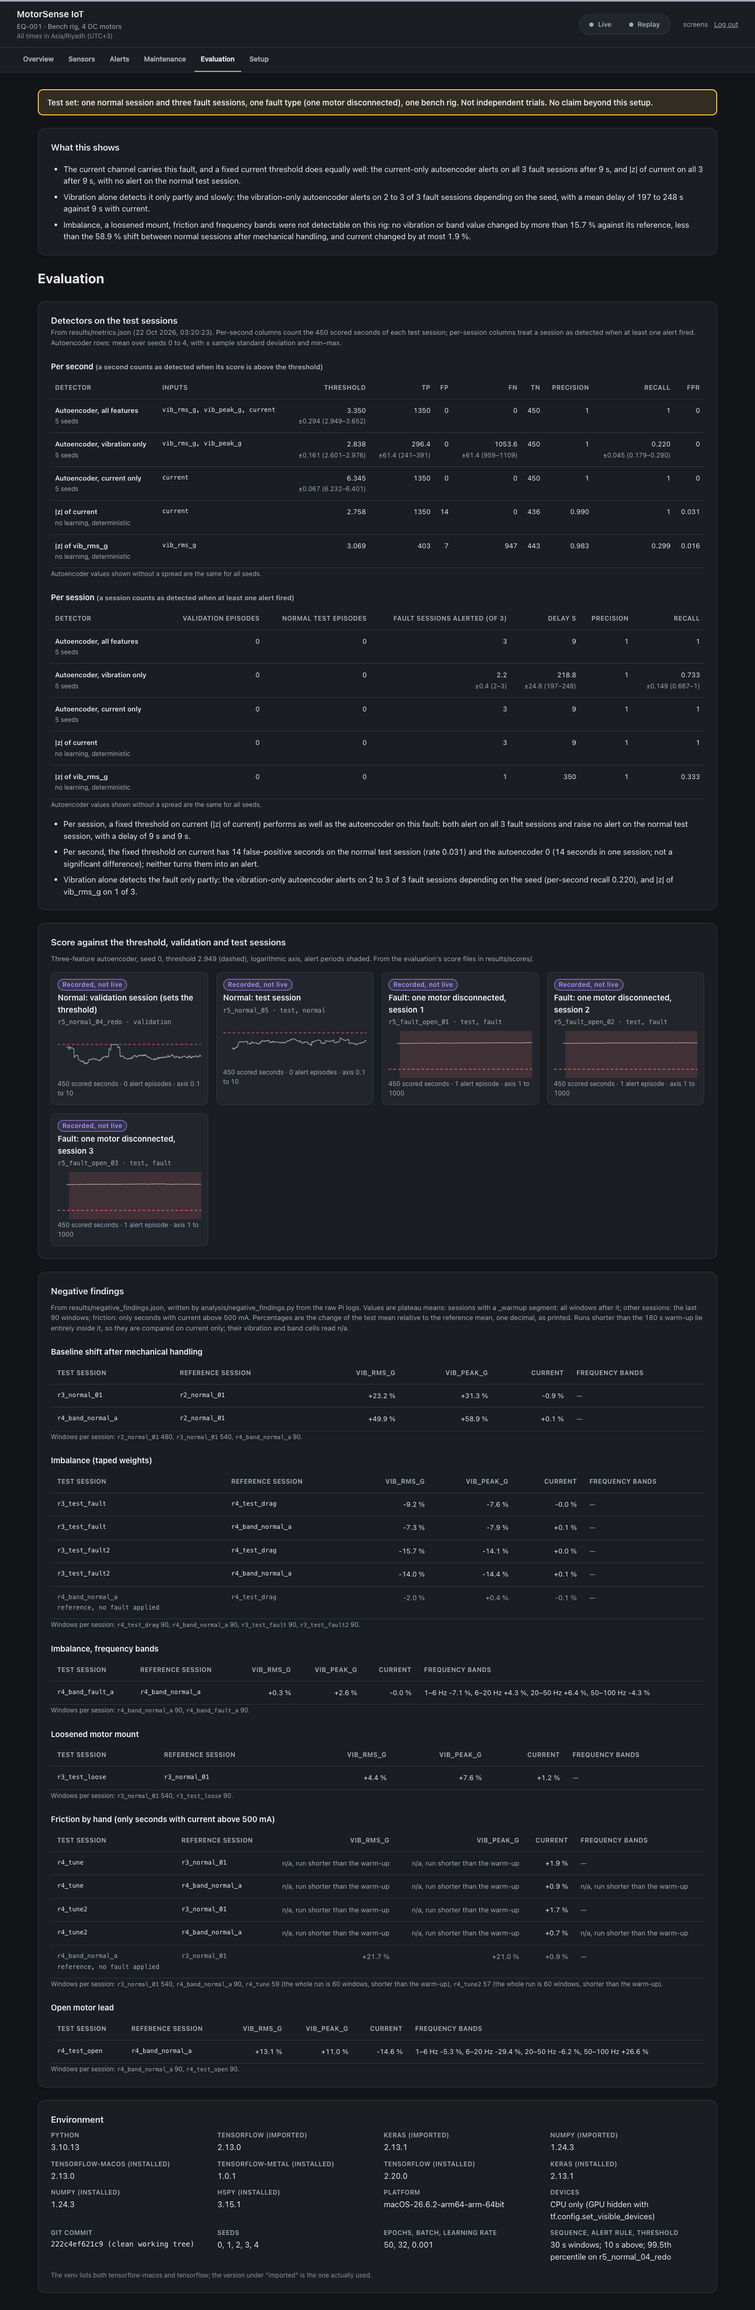
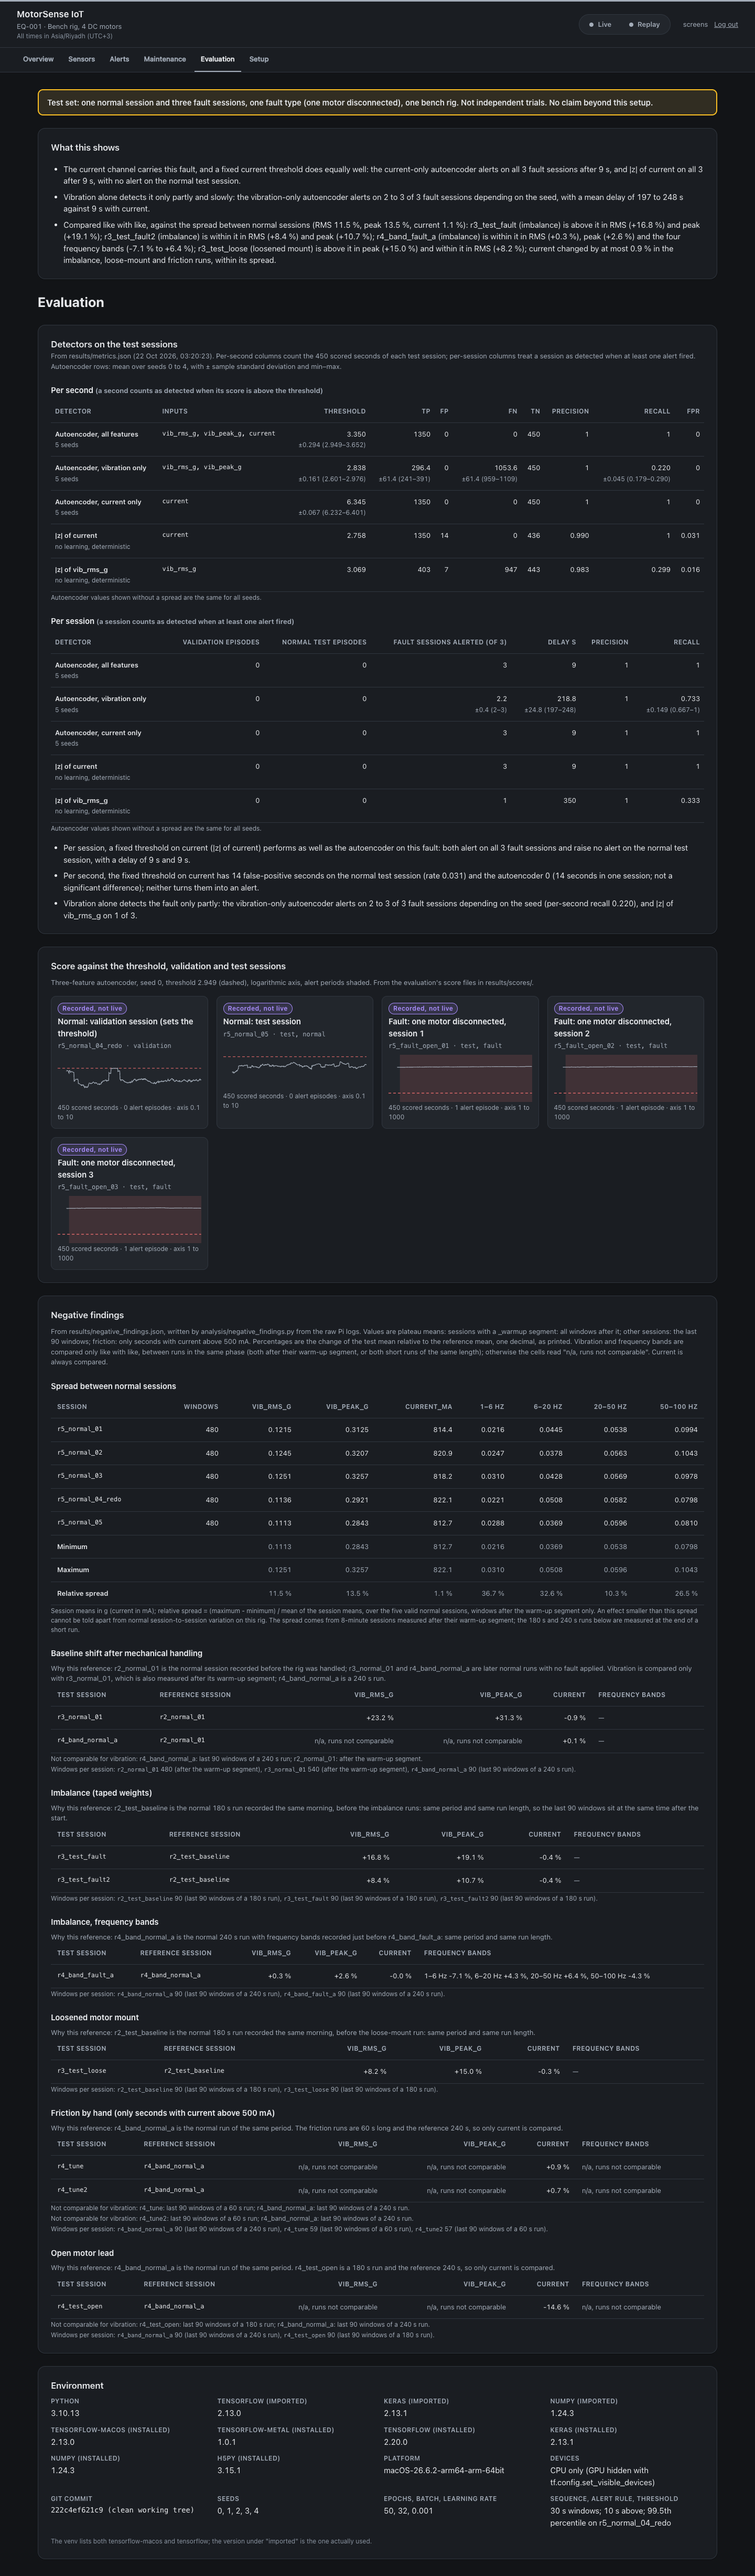
Retake the Evaluation screenshots with the like-for-like negative findings

diff --git a/docs/screenshots/README.md b/docs/screenshots/README.md
@@ -95,6 +95,17 @@ label `screenshot_feed` and scored by the real `score_live`. A first attempt at 
 stopped after 63 rows because a server restart left a 6 s gap; those rows were deleted and the
 feed started again. The fed rows and the maintenance fixture were deleted afterwards.
 
+## Like-for-like negative findings: Evaluation retaken again
+
+`evaluation_1440.png` and `evaluation_390.png` were retaken on 2026-10-22 (same browser and
+settings, code as of `434943f`) after the negative findings were recomputed: vibration and frequency
+bands are compared only like with like ("n/a, runs not comparable" otherwise), the imbalance and
+loose-mount runs are compared with `r2_test_baseline`, each comparison says why its reference was
+chosen, a new table shows the spread between the five valid normal sessions, and the third "What
+this shows" sentence sets every like-for-like change against that spread. These two files replace
+the Evaluation screenshots described in the two sections above. They read only the committed result
+files; no data was fed for them.
+
 Since the polish, every page's header also says "All times in Asia/Riyadh (UTC+3)". The other
 screenshots in this directory were taken before that line existed and were not retaken; apart
 from that line, their content is unchanged (the capturing browser was already at UTC+3).
